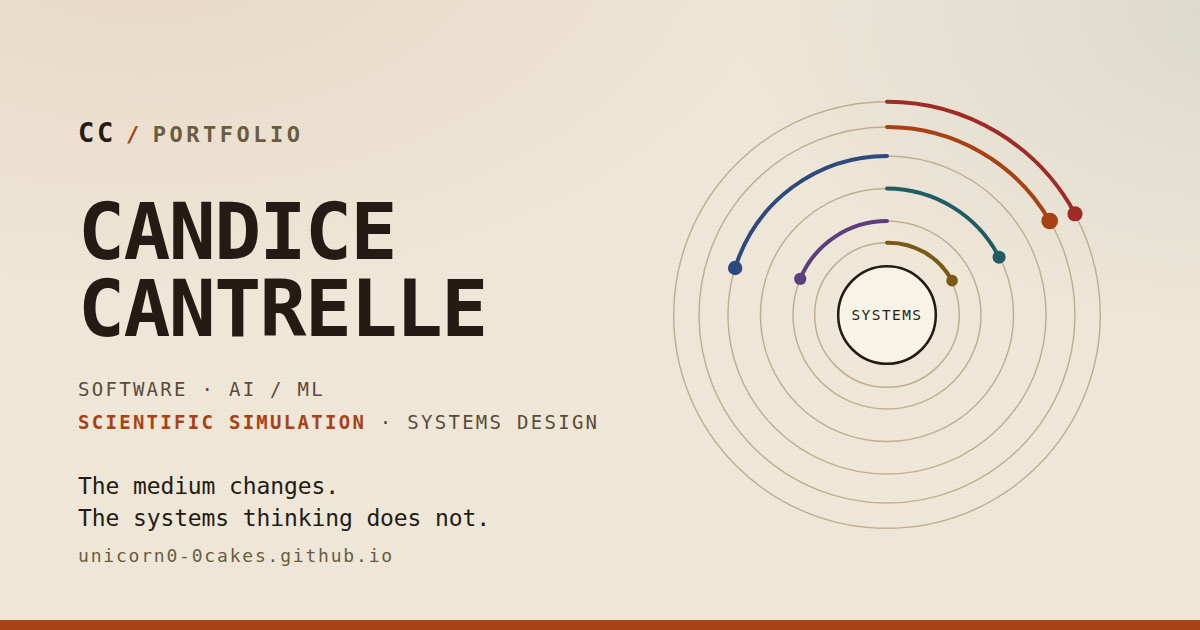
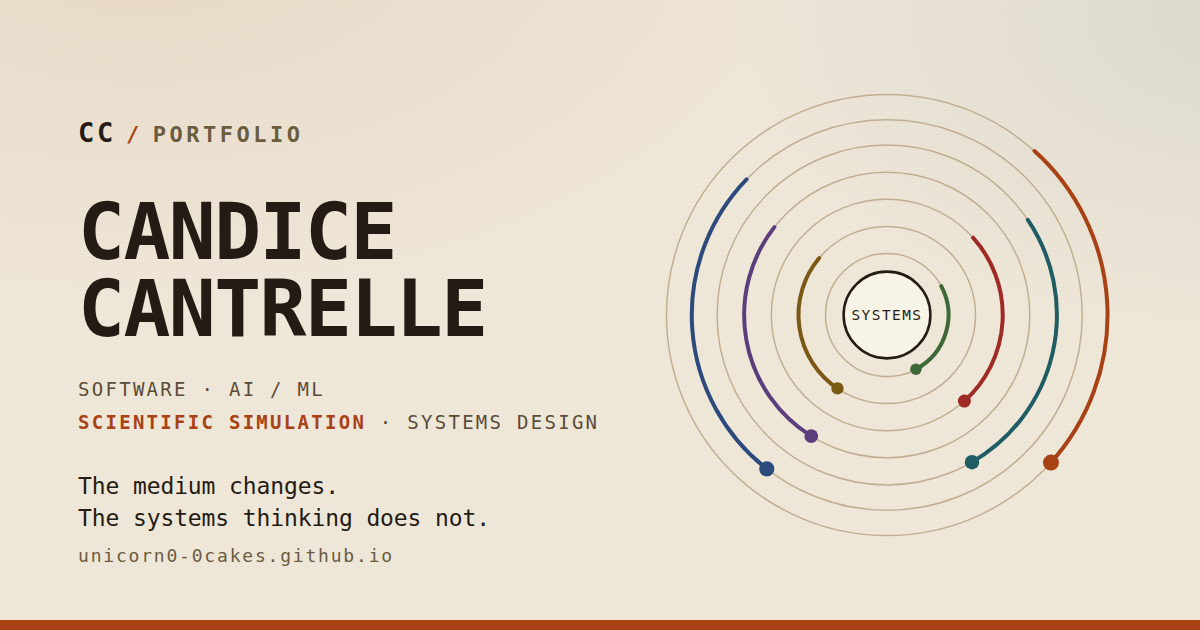
Draw all seven disciplines in the orbit figure
The homepage orbit showed six. The nav, the doors grid, the 404 and the
star map all say seven, and the figure is meant to be the argument the
rest of the site makes — so it was the one place asserting a different
structure. Workshop was missing.

Two labels also disagreed with their own wings: "Machine learning" where
the nav says AI + ML, and "Simulation" where the wing is Simulations.

The arc colours were decorative rather than meaningful: six arcs drawn at
radii chosen independently of the six labels, so the orange arc was not
Simulations' ring and the teal was not Software's. Ring radius, arc
colour and label now all belong to the same wing, taken from CATEGORIES
in registry order outward-in, so the figure encodes what it appears to.

Labels get the knockout treatment the star map already uses. The rings
rotate on a ninety-second cycle, so an arc passes behind the label column
whatever angle the arcs start at — struck-through labels were visible in
the night theme. Verified frozen thirty seconds into the cycle in both
themes rather than at rest.

The share card carried the same six-ring figure; regenerated to seven,
and the og:image:alt text on all sixteen pages now describes it.

Changed region(s): [[0.555, 0.1508, 0.925, 0.8444]]

diff --git a/index.html b/index.html
@@ -17,13 +17,13 @@
 <meta property="og:image" content="https://unicorn0-0cakes.github.io/assets/og-card.png">
 <meta property="og:image:width" content="1200">
 <meta property="og:image:height" content="630">
-<meta property="og:image:alt" content="Share card: the wordmark C C slash Portfolio, the name Candice Cantrelle set large, the disciplines Software, AI/ML, Scientific simulation and Systems design, the line “The medium changes. The systems thinking does not.”, and a six-ring orbit diagram centred on the word Systems.">
+<meta property="og:image:alt" content="Share card: the wordmark C C slash Portfolio, the name Candice Cantrelle set large, the disciplines Software, AI/ML, Scientific simulation and Systems design, the line “The medium changes. The systems thinking does not.”, and a seven-ring orbit diagram centred on the word Systems, one ring per discipline.">
 
 <meta name="twitter:card" content="summary_large_image">
 <meta name="twitter:title" content="Candice Cantrelle — Systems, Software, Simulation, Research, Design">
 <meta name="twitter:description" content="The medium changes. The systems thinking does not.">
 <meta name="twitter:image" content="https://unicorn0-0cakes.github.io/assets/og-card.png">
-<meta name="twitter:image:alt" content="Share card: the wordmark C C slash Portfolio, the name Candice Cantrelle set large, the disciplines Software, AI/ML, Scientific simulation and Systems design, the line “The medium changes. The systems thinking does not.”, and a six-ring orbit diagram centred on the word Systems.">
+<meta name="twitter:image:alt" content="Share card: the wordmark C C slash Portfolio, the name Candice Cantrelle set large, the disciplines Software, AI/ML, Scientific simulation and Systems design, the line “The medium changes. The systems thinking does not.”, and a seven-ring orbit diagram centred on the word Systems, one ring per discipline.">
 
 
 <!-- Structured data. Deliberately minimal: a name, the site, and two
@@ -122,14 +122,20 @@
   .orbit-link:focus-visible .orbit-link__cue { color: var(--w-accent); }
   .orbit-link:hover .orbit, .orbit-link:focus-visible .orbit { opacity: .92; }
 
-  /* The orbit plate. Six rings, one per discipline, drawn to the same
-     centre — the argument of the whole site, stated as a figure. */
+  /* The orbit plate. Seven rings, one per discipline, drawn to the same
+     centre — the argument of the whole site, stated as a figure. Ring
+     radius, arc colour and label all belong to the same wing, so the
+     figure says the same thing as the navigation. */
   .orbit { width: 100%; max-width: 300px; margin: 0 auto; display: block; }
   .orbit .ring { fill: none; stroke: var(--rf-line); stroke-width: 1; }
   .orbit .arc  { fill: none; stroke-width: 1.6; stroke-linecap: round; }
   .orbit .core { fill: var(--rf-panel); stroke: var(--rf-ink); stroke-width: 1.6; }
   .orbit .node { stroke: none; }
-  .orbit .lbl  { fill: var(--rf-muted); font-family: var(--rf-mono); font-size: 5.6px; letter-spacing: .16em; text-transform: uppercase; }
+  /* The arcs rotate, so one will eventually pass behind the label column.
+     Knocking the labels out of the background keeps them readable at every
+     point in the cycle rather than only at the moment of the screenshot. */
+  .orbit .lbl  { fill: var(--rf-muted); font-family: var(--rf-mono); font-size: 5.6px; letter-spacing: .16em; text-transform: uppercase;
+                 paint-order: stroke; stroke: var(--rf-bg); stroke-width: 2.6; stroke-linejoin: round; }
   .orbit .ctr  { fill: var(--rf-ink); font-family: var(--rf-mono); font-size: 6.4px; letter-spacing: .18em; text-transform: uppercase; }
   html[data-theme="night"] .orbit .arc, html[data-theme="night"] .orbit .node { filter: drop-shadow(0 0 4px currentColor); }
   .orbit .spin { transform-origin: 130px 130px; animation: orbit-spin 90s linear infinite; }
@@ -211,42 +217,46 @@
       <div>
         <a class="orbit-link" href="map/" aria-label="Open the star map: the whole site as one figure">
         <svg class="orbit" viewBox="0 0 260 260" role="img" aria-labelledby="orbit-t orbit-d">
-          <title id="orbit-t">Six disciplines on concentric orbits around one centre</title>
-          <desc id="orbit-d">A diagram: six rings of different radii share a single centre marked "systems", each carrying one discipline — simulation, machine learning, software, research, games and design.</desc>
+          <title id="orbit-t">Seven disciplines on concentric orbits around one centre</title>
+          <desc id="orbit-d">A diagram: seven rings of different radii share a single centre marked &quot;systems&quot;, each carrying one discipline &mdash; simulations, AI and machine learning, software, research, games, design and workshop. Each ring is drawn in that discipline&#39;s own colour.</desc>
 
-          <circle class="ring" cx="130" cy="130" r="34"/>
-          <circle class="ring" cx="130" cy="130" r="52"/>
-          <circle class="ring" cx="130" cy="130" r="70"/>
-          <circle class="ring" cx="130" cy="130" r="88"/>
-          <circle class="ring" cx="130" cy="130" r="106"/>
           <circle class="ring" cx="130" cy="130" r="122"/>
+          <circle class="ring" cx="130" cy="130" r="108"/>
+          <circle class="ring" cx="130" cy="130" r="94"/>
+          <circle class="ring" cx="130" cy="130" r="79"/>
+          <circle class="ring" cx="130" cy="130" r="64"/>
+          <circle class="ring" cx="130" cy="130" r="49"/>
+          <circle class="ring" cx="130" cy="130" r="34"/>
 
           <g class="spin">
-            <path class="arc" style="stroke:var(--rf-orange)" d="M130 24 A106 106 0 0 1 224 78"/>
-            <circle class="node" style="fill:var(--rf-orange)" cx="224" cy="78" r="3.6"/>
-            <path class="arc" style="stroke:var(--rf-teal)"   d="M130 60 A70 70 0 0 1 60 130"/>
-            <circle class="node" style="fill:var(--rf-teal)" cx="60" cy="130" r="3.2"/>
-            <path class="arc" style="stroke:var(--rf-gold)"   d="M130 96 A34 34 0 0 1 156 155"/>
-            <circle class="node" style="fill:var(--rf-gold)" cx="156" cy="155" r="2.8"/>
+            <path class="arc" style="stroke:var(--rf-orange)" d="M211.6 39.3 A122 122 0 0 1 220.7 211.6"/>
+            <circle class="node" style="fill:var(--rf-orange)" cx="220.7" cy="211.6" r="3.6"/>
+            <path class="arc" style="stroke:var(--rf-teal)" d="M207.9 77.4 A94 94 0 0 1 177 211.4"/>
+            <circle class="node" style="fill:var(--rf-teal)" cx="177" cy="211.4" r="3.2"/>
+            <path class="arc" style="stroke:var(--rf-oxide)" d="M177.6 87.2 A64 64 0 0 1 172.8 177.6"/>
+            <circle class="node" style="fill:var(--rf-oxide)" cx="172.8" cy="177.6" r="3.0"/>
+            <path class="arc" style="stroke:var(--rf-moss)" d="M160 114 A34 34 0 0 1 146 160"/>
+            <circle class="node" style="fill:var(--rf-moss)" cx="146" cy="160" r="2.8"/>
           </g>
           <g class="spin rev">
-            <path class="arc" style="stroke:var(--rf-indigo)" d="M130 42 A88 88 0 0 0 48 172"/>
-            <circle class="node" style="fill:var(--rf-indigo)" cx="48" cy="172" r="3.4"/>
-            <path class="arc" style="stroke:var(--rf-violet)" d="M130 78 A52 52 0 0 0 176 158"/>
-            <circle class="node" style="fill:var(--rf-violet)" cx="176" cy="158" r="3"/>
-            <path class="arc" style="stroke:var(--rf-oxide)"  d="M130 8 A122 122 0 0 0 24 190"/>
-            <circle class="node" style="fill:var(--rf-oxide)" cx="24" cy="190" r="3.4"/>
+            <path class="arc" style="stroke:var(--rf-indigo)" d="M52.3 55 A108 108 0 0 0 63.5 215.1"/>
+            <circle class="node" style="fill:var(--rf-indigo)" cx="63.5" cy="215.1" r="3.4"/>
+            <path class="arc" style="stroke:var(--rf-violet)" d="M67.7 81.4 A79 79 0 0 0 88.1 197"/>
+            <circle class="node" style="fill:var(--rf-violet)" cx="88.1" cy="197" r="3.1"/>
+            <path class="arc" style="stroke:var(--rf-gold)" d="M92.5 98.5 A49 49 0 0 0 102.6 170.6"/>
+            <circle class="node" style="fill:var(--rf-gold)" cx="102.6" cy="170.6" r="2.9"/>
           </g>
 
           <circle class="core" cx="130" cy="130" r="21"/>
           <text class="ctr" x="130" y="132" text-anchor="middle">Systems</text>
 
-          <text class="lbl" x="130" y="6"   text-anchor="middle">Games</text>
-          <text class="lbl" x="130" y="20"  text-anchor="middle">Simulation</text>
-          <text class="lbl" x="130" y="38"  text-anchor="middle">Machine learning</text>
-          <text class="lbl" x="130" y="56"  text-anchor="middle">Software</text>
-          <text class="lbl" x="130" y="74"  text-anchor="middle">Research</text>
-          <text class="lbl" x="130" y="92"  text-anchor="middle">Design</text>
+          <text class="lbl" x="130" y="10" text-anchor="middle">Simulations</text>
+          <text class="lbl" x="130" y="24" text-anchor="middle">AI + ML</text>
+          <text class="lbl" x="130" y="38" text-anchor="middle">Software</text>
+          <text class="lbl" x="130" y="53" text-anchor="middle">Research</text>
+          <text class="lbl" x="130" y="68" text-anchor="middle">Games</text>
+          <text class="lbl" x="130" y="83" text-anchor="middle">Design</text>
+          <text class="lbl" x="130" y="98" text-anchor="middle">Workshop</text>
         </svg>
         <span class="orbit-link__cue">Open the star map</span>
         </a>

diff --git a/tools/og-card.html b/tools/og-card.html
@@ -91,34 +91,38 @@
     <p class="url">unicorn0-0cakes.github.io</p>
   </div>
 
-  <!-- The same figure the homepage carries: six disciplines, one centre. -->
+  <!-- The same figure the homepage carries: seven disciplines, one centre,
+       each ring in its own wing's colour. -->
   <svg class="orbit" viewBox="0 0 260 260" aria-hidden="true">
     <g fill="none" stroke="var(--rf-line)" stroke-width=".8">
-      <circle cx="130" cy="130" r="40"/>
-      <circle cx="130" cy="130" r="52"/>
-      <circle cx="130" cy="130" r="70"/>
-      <circle cx="130" cy="130" r="88"/>
-      <circle cx="130" cy="130" r="104"/>
-      <circle cx="130" cy="130" r="118"/>
+      <circle cx="130" cy="130" r="122"/>
+      <circle cx="130" cy="130" r="108"/>
+      <circle cx="130" cy="130" r="94"/>
+      <circle cx="130" cy="130" r="79"/>
+      <circle cx="130" cy="130" r="64"/>
+      <circle cx="130" cy="130" r="49"/>
+      <circle cx="130" cy="130" r="34"/>
     </g>
     <g stroke-width="2.2" fill="none" stroke-linecap="round">
-      <path d="M130 26a104 104 0 0 1 90 52" stroke="var(--rf-orange)"/>
-      <path d="M130 42a88 88 0 0 0-84 62" stroke="var(--rf-indigo)"/>
-      <path d="M130 60a70 70 0 0 1 62 38" stroke="var(--rf-teal)"/>
-      <path d="M130 78a52 52 0 0 0-48 32" stroke="var(--rf-violet)"/>
-      <path d="M130 12a118 118 0 0 1 104 62" stroke="var(--rf-oxide)"/>
-      <path d="M130 90a40 40 0 0 1 36 21" stroke="var(--rf-gold)"/>
+      <path d="M211.6 39.3 A122 122 0 0 1 220.7 211.6" stroke="var(--rf-orange)"/>
+      <path d="M52.3 55 A108 108 0 0 0 63.5 215.1" stroke="var(--rf-indigo)"/>
+      <path d="M207.9 77.4 A94 94 0 0 1 177 211.4" stroke="var(--rf-teal)"/>
+      <path d="M67.7 81.4 A79 79 0 0 0 88.1 197" stroke="var(--rf-violet)"/>
+      <path d="M177.6 87.2 A64 64 0 0 1 172.8 177.6" stroke="var(--rf-oxide)"/>
+      <path d="M92.5 98.5 A49 49 0 0 0 102.6 170.6" stroke="var(--rf-gold)"/>
+      <path d="M160 114 A34 34 0 0 1 146 160" stroke="var(--rf-moss)"/>
     </g>
-    <g fill="var(--rf-ink)">
-      <circle cx="220" cy="78" r="4.6" fill="var(--rf-orange)"/>
-      <circle cx="46" cy="104" r="4" fill="var(--rf-indigo)"/>
-      <circle cx="192" cy="98" r="3.6" fill="var(--rf-teal)"/>
-      <circle cx="82" cy="110" r="3.4" fill="var(--rf-violet)"/>
-      <circle cx="234" cy="74" r="4.2" fill="var(--rf-oxide)"/>
-      <circle cx="166" cy="111" r="3.2" fill="var(--rf-gold)"/>
+    <g>
+      <circle cx="220.7" cy="211.6" r="4.4" fill="var(--rf-orange)"/>
+      <circle cx="63.5" cy="215.1" r="4.2" fill="var(--rf-indigo)"/>
+      <circle cx="177" cy="211.4" r="4.0" fill="var(--rf-teal)"/>
+      <circle cx="88.1" cy="197" r="3.8" fill="var(--rf-violet)"/>
+      <circle cx="172.8" cy="177.6" r="3.6" fill="var(--rf-oxide)"/>
+      <circle cx="102.6" cy="170.6" r="3.4" fill="var(--rf-gold)"/>
+      <circle cx="146" cy="160" r="3.2" fill="var(--rf-moss)"/>
     </g>
-    <circle cx="130" cy="130" r="27" fill="var(--rf-panel)" stroke="var(--rf-ink)" stroke-width="1.4"/>
-    <text class="lbl" x="130" y="133" text-anchor="middle" style="fill:var(--rf-ink)">SYSTEMS</text>
+    <circle cx="130" cy="130" r="24" fill="var(--rf-panel)" stroke="var(--rf-ink)" stroke-width="1.4"/>
+    <text class="lbl" x="130" y="132.5" text-anchor="middle" style="fill:var(--rf-ink)">SYSTEMS</text>
   </svg>
 </div>
 </body>

diff --git a/research/multimodal-archaeology/index.html b/research/multimodal-archaeology/index.html
@@ -17,13 +17,13 @@
 <meta property="og:image" content="https://unicorn0-0cakes.github.io/assets/og-card.png">
 <meta property="og:image:width" content="1200">
 <meta property="og:image:height" content="630">
-<meta property="og:image:alt" content="Share card: the wordmark C C slash Portfolio, the name Candice Cantrelle set large, the disciplines Software, AI/ML, Scientific simulation and Systems design, the line “The medium changes. The systems thinking does not.”, and a six-ring orbit diagram centred on the word Systems.">
+<meta property="og:image:alt" content="Share card: the wordmark C C slash Portfolio, the name Candice Cantrelle set large, the disciplines Software, AI/ML, Scientific simulation and Systems design, the line “The medium changes. The systems thinking does not.”, and a seven-ring orbit diagram centred on the word Systems, one ring per discipline.">
 
 <meta name="twitter:card" content="summary_large_image">
 <meta name="twitter:title" content="Multimodal Archaeological Site Detection — Candice Cantrelle">
 <meta name="twitter:description" content="A proposed three-tier pipeline for locating unrecorded archaeological sites from satellite, LiDAR and archival text. Architecture built; nothing trained; no performance claimed.">
 <meta name="twitter:image" content="https://unicorn0-0cakes.github.io/assets/og-card.png">
-<meta name="twitter:image:alt" content="Share card: the wordmark C C slash Portfolio, the name Candice Cantrelle set large, the disciplines Software, AI/ML, Scientific simulation and Systems design, the line “The medium changes. The systems thinking does not.”, and a six-ring orbit diagram centred on the word Systems.">
+<meta name="twitter:image:alt" content="Share card: the wordmark C C slash Portfolio, the name Candice Cantrelle set large, the disciplines Software, AI/ML, Scientific simulation and Systems design, the line “The medium changes. The systems thinking does not.”, and a seven-ring orbit diagram centred on the word Systems, one ring per discipline.">
 
 <link rel="preconnect" href="https://fonts.googleapis.com">
 <link rel="preconnect" href="https://fonts.gstatic.com" crossorigin>

diff --git a/software/index.html b/software/index.html
@@ -17,13 +17,13 @@
 <meta property="og:image" content="https://unicorn0-0cakes.github.io/assets/og-card.png">
 <meta property="og:image:width" content="1200">
 <meta property="og:image:height" content="630">
-<meta property="og:image:alt" content="Share card: the wordmark C C slash Portfolio, the name Candice Cantrelle set large, the disciplines Software, AI/ML, Scientific simulation and Systems design, the line “The medium changes. The systems thinking does not.”, and a six-ring orbit diagram centred on the word Systems.">
+<meta property="og:image:alt" content="Share card: the wordmark C C slash Portfolio, the name Candice Cantrelle set large, the disciplines Software, AI/ML, Scientific simulation and Systems design, the line “The medium changes. The systems thinking does not.”, and a seven-ring orbit diagram centred on the word Systems, one ring per discipline.">
 
 <meta name="twitter:card" content="summary_large_image">
 <meta name="twitter:title" content="Software & Tools — Candice Cantrelle">
 <meta name="twitter:description" content="Applications and utilities built end to end: a computer-vision pipeline that turns a photograph of a key into a printable model, and a speedcubing timer that runs entirely offline.">
 <meta name="twitter:image" content="https://unicorn0-0cakes.github.io/assets/og-card.png">
-<meta name="twitter:image:alt" content="Share card: the wordmark C C slash Portfolio, the name Candice Cantrelle set large, the disciplines Software, AI/ML, Scientific simulation and Systems design, the line “The medium changes. The systems thinking does not.”, and a six-ring orbit diagram centred on the word Systems.">
+<meta name="twitter:image:alt" content="Share card: the wordmark C C slash Portfolio, the name Candice Cantrelle set large, the disciplines Software, AI/ML, Scientific simulation and Systems design, the line “The medium changes. The systems thinking does not.”, and a seven-ring orbit diagram centred on the word Systems, one ring per discipline.">
 
 <link rel="preconnect" href="https://fonts.googleapis.com">
 <link rel="preconnect" href="https://fonts.gstatic.com" crossorigin>

diff --git a/software/key-to-stl/index.html b/software/key-to-stl/index.html
@@ -17,13 +17,13 @@
 <meta property="og:image" content="https://unicorn0-0cakes.github.io/assets/og-card.png">
 <meta property="og:image:width" content="1200">
 <meta property="og:image:height" content="630">
-<meta property="og:image:alt" content="Share card: the wordmark C C slash Portfolio, the name Candice Cantrelle set large, the disciplines Software, AI/ML, Scientific simulation and Systems design, the line “The medium changes. The systems thinking does not.”, and a six-ring orbit diagram centred on the word Systems.">
+<meta property="og:image:alt" content="Share card: the wordmark C C slash Portfolio, the name Candice Cantrelle set large, the disciplines Software, AI/ML, Scientific simulation and Systems design, the line “The medium changes. The systems thinking does not.”, and a seven-ring orbit diagram centred on the word Systems, one ring per discipline.">
 
 <meta name="twitter:card" content="summary_large_image">
 <meta name="twitter:title" content="Key → STL — Candice Cantrelle">
 <meta name="twitter:description" content="A four-surface system for recovering a printable profile from a photograph of a key: OpenCV core, FastAPI service, browser client, desktop build and an automated release pipeline.">
 <meta name="twitter:image" content="https://unicorn0-0cakes.github.io/assets/og-card.png">
-<meta name="twitter:image:alt" content="Share card: the wordmark C C slash Portfolio, the name Candice Cantrelle set large, the disciplines Software, AI/ML, Scientific simulation and Systems design, the line “The medium changes. The systems thinking does not.”, and a six-ring orbit diagram centred on the word Systems.">
+<meta name="twitter:image:alt" content="Share card: the wordmark C C slash Portfolio, the name Candice Cantrelle set large, the disciplines Software, AI/ML, Scientific simulation and Systems design, the line “The medium changes. The systems thinking does not.”, and a seven-ring orbit diagram centred on the word Systems, one ring per discipline.">
 
 <link rel="preconnect" href="https://fonts.googleapis.com">
 <link rel="preconnect" href="https://fonts.gstatic.com" crossorigin>

diff --git a/ai-ml/facial-emotion-detection/index.html b/ai-ml/facial-emotion-detection/index.html
@@ -17,13 +17,13 @@
 <meta property="og:image" content="https://unicorn0-0cakes.github.io/assets/og-card.png">
 <meta property="og:image:width" content="1200">
 <meta property="og:image:height" content="630">
-<meta property="og:image:alt" content="Share card: the wordmark C C slash Portfolio, the name Candice Cantrelle set large, the disciplines Software, AI/ML, Scientific simulation and Systems design, the line “The medium changes. The systems thinking does not.”, and a six-ring orbit diagram centred on the word Systems.">
+<meta property="og:image:alt" content="Share card: the wordmark C C slash Portfolio, the name Candice Cantrelle set large, the disciplines Software, AI/ML, Scientific simulation and Systems design, the line “The medium changes. The systems thinking does not.”, and a seven-ring orbit diagram centred on the word Systems, one ring per discipline.">
 
 <meta name="twitter:card" content="summary_large_image">
 <meta name="twitter:title" content="Facial Emotion Detection — Candice Cantrelle">
 <meta name="twitter:description" content="Four-class facial expression recognition with VGG16 transfer learning: 72.66% test accuracy, 72.80% F1, and the class imbalance that partly explains both.">
 <meta name="twitter:image" content="https://unicorn0-0cakes.github.io/assets/og-card.png">
-<meta name="twitter:image:alt" content="Share card: the wordmark C C slash Portfolio, the name Candice Cantrelle set large, the disciplines Software, AI/ML, Scientific simulation and Systems design, the line “The medium changes. The systems thinking does not.”, and a six-ring orbit diagram centred on the word Systems.">
+<meta name="twitter:image:alt" content="Share card: the wordmark C C slash Portfolio, the name Candice Cantrelle set large, the disciplines Software, AI/ML, Scientific simulation and Systems design, the line “The medium changes. The systems thinking does not.”, and a seven-ring orbit diagram centred on the word Systems, one ring per discipline.">
 
 <link rel="preconnect" href="https://fonts.googleapis.com">
 <link rel="preconnect" href="https://fonts.gstatic.com" crossorigin>

diff --git a/about/credentials/index.html b/about/credentials/index.html
@@ -17,13 +17,13 @@
 <meta property="og:image" content="https://unicorn0-0cakes.github.io/assets/og-card.png">
 <meta property="og:image:width" content="1200">
 <meta property="og:image:height" content="630">
-<meta property="og:image:alt" content="Share card: the wordmark C C slash Portfolio, the name Candice Cantrelle set large, the disciplines Software, AI/ML, Scientific simulation and Systems design, the line “The medium changes. The systems thinking does not.”, and a six-ring orbit diagram centred on the word Systems.">
+<meta property="og:image:alt" content="Share card: the wordmark C C slash Portfolio, the name Candice Cantrelle set large, the disciplines Software, AI/ML, Scientific simulation and Systems design, the line “The medium changes. The systems thinking does not.”, and a seven-ring orbit diagram centred on the word Systems, one ring per discipline.">
 
 <meta name="twitter:card" content="summary_large_image">
 <meta name="twitter:title" content="Credentials — Candice Cantrelle">
 <meta name="twitter:description" content="Twelve certificate programmes and their component coursework, plus individually completed certifications: MIT, IBM, Google, HKUST, HP and University of Edinburgh.">
 <meta name="twitter:image" content="https://unicorn0-0cakes.github.io/assets/og-card.png">
-<meta name="twitter:image:alt" content="Share card: the wordmark C C slash Portfolio, the name Candice Cantrelle set large, the disciplines Software, AI/ML, Scientific simulation and Systems design, the line “The medium changes. The systems thinking does not.”, and a six-ring orbit diagram centred on the word Systems.">
+<meta name="twitter:image:alt" content="Share card: the wordmark C C slash Portfolio, the name Candice Cantrelle set large, the disciplines Software, AI/ML, Scientific simulation and Systems design, the line “The medium changes. The systems thinking does not.”, and a seven-ring orbit diagram centred on the word Systems, one ring per discipline.">
 
 <link rel="preconnect" href="https://fonts.googleapis.com">
 <link rel="preconnect" href="https://fonts.gstatic.com" crossorigin>

diff --git a/research/index.html b/research/index.html
@@ -17,13 +17,13 @@
 <meta property="og:image" content="https://unicorn0-0cakes.github.io/assets/og-card.png">
 <meta property="og:image:width" content="1200">
 <meta property="og:image:height" content="630">
-<meta property="og:image:alt" content="Share card: the wordmark C C slash Portfolio, the name Candice Cantrelle set large, the disciplines Software, AI/ML, Scientific simulation and Systems design, the line “The medium changes. The systems thinking does not.”, and a six-ring orbit diagram centred on the word Systems.">
+<meta property="og:image:alt" content="Share card: the wordmark C C slash Portfolio, the name Candice Cantrelle set large, the disciplines Software, AI/ML, Scientific simulation and Systems design, the line “The medium changes. The systems thinking does not.”, and a seven-ring orbit diagram centred on the word Systems, one ring per discipline.">
 
 <meta name="twitter:card" content="summary_large_image">
 <meta name="twitter:title" content="Research — Candice Cantrelle">
 <meta name="twitter:description" content="Exploratory work where the investigation is the output. Implemented and proposed are labelled separately, and no performance claims are made without evidence.">
 <meta name="twitter:image" content="https://unicorn0-0cakes.github.io/assets/og-card.png">
-<meta name="twitter:image:alt" content="Share card: the wordmark C C slash Portfolio, the name Candice Cantrelle set large, the disciplines Software, AI/ML, Scientific simulation and Systems design, the line “The medium changes. The systems thinking does not.”, and a six-ring orbit diagram centred on the word Systems.">
+<meta name="twitter:image:alt" content="Share card: the wordmark C C slash Portfolio, the name Candice Cantrelle set large, the disciplines Software, AI/ML, Scientific simulation and Systems design, the line “The medium changes. The systems thinking does not.”, and a seven-ring orbit diagram centred on the word Systems, one ring per discipline.">
 
 <link rel="preconnect" href="https://fonts.googleapis.com">
 <link rel="preconnect" href="https://fonts.gstatic.com" crossorigin>

diff --git a/ai-ml/index.html b/ai-ml/index.html
@@ -17,13 +17,13 @@
 <meta property="og:image" content="https://unicorn0-0cakes.github.io/assets/og-card.png">
 <meta property="og:image:width" content="1200">
 <meta property="og:image:height" content="630">
-<meta property="og:image:alt" content="Share card: the wordmark C C slash Portfolio, the name Candice Cantrelle set large, the disciplines Software, AI/ML, Scientific simulation and Systems design, the line “The medium changes. The systems thinking does not.”, and a six-ring orbit diagram centred on the word Systems.">
+<meta property="og:image:alt" content="Share card: the wordmark C C slash Portfolio, the name Candice Cantrelle set large, the disciplines Software, AI/ML, Scientific simulation and Systems design, the line “The medium changes. The systems thinking does not.”, and a seven-ring orbit diagram centred on the word Systems, one ring per discipline.">
 
 <meta name="twitter:card" content="summary_large_image">
 <meta name="twitter:title" content="AI & Machine Learning — Candice Cantrelle">
 <meta name="twitter:description" content="Vision and prediction projects reported with the numbers that were actually measured — and clearly marked where no verified numbers exist.">
 <meta name="twitter:image" content="https://unicorn0-0cakes.github.io/assets/og-card.png">
-<meta name="twitter:image:alt" content="Share card: the wordmark C C slash Portfolio, the name Candice Cantrelle set large, the disciplines Software, AI/ML, Scientific simulation and Systems design, the line “The medium changes. The systems thinking does not.”, and a six-ring orbit diagram centred on the word Systems.">
+<meta name="twitter:image:alt" content="Share card: the wordmark C C slash Portfolio, the name Candice Cantrelle set large, the disciplines Software, AI/ML, Scientific simulation and Systems design, the line “The medium changes. The systems thinking does not.”, and a seven-ring orbit diagram centred on the word Systems, one ring per discipline.">
 
 <link rel="preconnect" href="https://fonts.googleapis.com">
 <link rel="preconnect" href="https://fonts.gstatic.com" crossorigin>

diff --git a/design/index.html b/design/index.html
@@ -17,13 +17,13 @@
 <meta property="og:image" content="https://unicorn0-0cakes.github.io/assets/og-card.png">
 <meta property="og:image:width" content="1200">
 <meta property="og:image:height" content="630">
-<meta property="og:image:alt" content="Share card: the wordmark C C slash Portfolio, the name Candice Cantrelle set large, the disciplines Software, AI/ML, Scientific simulation and Systems design, the line “The medium changes. The systems thinking does not.”, and a six-ring orbit diagram centred on the word Systems.">
+<meta property="og:image:alt" content="Share card: the wordmark C C slash Portfolio, the name Candice Cantrelle set large, the disciplines Software, AI/ML, Scientific simulation and Systems design, the line “The medium changes. The systems thinking does not.”, and a seven-ring orbit diagram centred on the word Systems, one ring per discipline.">
 
 <meta name="twitter:card" content="summary_large_image">
 <meta name="twitter:title" content="Design — Candice Cantrelle">
 <meta name="twitter:description" content="Visual systems and client work: identity for an industrial crane business, fine jewellery visualization, and virtual staging for residential property.">
 <meta name="twitter:image" content="https://unicorn0-0cakes.github.io/assets/og-card.png">
-<meta name="twitter:image:alt" content="Share card: the wordmark C C slash Portfolio, the name Candice Cantrelle set large, the disciplines Software, AI/ML, Scientific simulation and Systems design, the line “The medium changes. The systems thinking does not.”, and a six-ring orbit diagram centred on the word Systems.">
+<meta name="twitter:image:alt" content="Share card: the wordmark C C slash Portfolio, the name Candice Cantrelle set large, the disciplines Software, AI/ML, Scientific simulation and Systems design, the line “The medium changes. The systems thinking does not.”, and a seven-ring orbit diagram centred on the word Systems, one ring per discipline.">
 
 <link rel="preconnect" href="https://fonts.googleapis.com">
 <link rel="preconnect" href="https://fonts.gstatic.com" crossorigin>

diff --git a/about/index.html b/about/index.html
@@ -17,13 +17,13 @@
 <meta property="og:image" content="https://unicorn0-0cakes.github.io/assets/og-card.png">
 <meta property="og:image:width" content="1200">
 <meta property="og:image:height" content="630">
-<meta property="og:image:alt" content="Share card: the wordmark C C slash Portfolio, the name Candice Cantrelle set large, the disciplines Software, AI/ML, Scientific simulation and Systems design, the line “The medium changes. The systems thinking does not.”, and a six-ring orbit diagram centred on the word Systems.">
+<meta property="og:image:alt" content="Share card: the wordmark C C slash Portfolio, the name Candice Cantrelle set large, the disciplines Software, AI/ML, Scientific simulation and Systems design, the line “The medium changes. The systems thinking does not.”, and a seven-ring orbit diagram centred on the word Systems, one ring per discipline.">
 
 <meta name="twitter:card" content="summary_large_image">
 <meta name="twitter:title" content="About — Candice Cantrelle">
 <meta name="twitter:description" content="How I work, what I have built, and what I have studied. Systems thinking across simulation, machine learning, software, research and design.">
 <meta name="twitter:image" content="https://unicorn0-0cakes.github.io/assets/og-card.png">
-<meta name="twitter:image:alt" content="Share card: the wordmark C C slash Portfolio, the name Candice Cantrelle set large, the disciplines Software, AI/ML, Scientific simulation and Systems design, the line “The medium changes. The systems thinking does not.”, and a six-ring orbit diagram centred on the word Systems.">
+<meta name="twitter:image:alt" content="Share card: the wordmark C C slash Portfolio, the name Candice Cantrelle set large, the disciplines Software, AI/ML, Scientific simulation and Systems design, the line “The medium changes. The systems thinking does not.”, and a seven-ring orbit diagram centred on the word Systems, one ring per discipline.">
 
 <link rel="preconnect" href="https://fonts.googleapis.com">
 <link rel="preconnect" href="https://fonts.gstatic.com" crossorigin>

diff --git a/simulation/index.html b/simulation/index.html
@@ -17,13 +17,13 @@
 <meta property="og:image" content="https://unicorn0-0cakes.github.io/assets/og-card.png">
 <meta property="og:image:width" content="1200">
 <meta property="og:image:height" content="630">
-<meta property="og:image:alt" content="Share card: the wordmark C C slash Portfolio, the name Candice Cantrelle set large, the disciplines Software, AI/ML, Scientific simulation and Systems design, the line “The medium changes. The systems thinking does not.”, and a six-ring orbit diagram centred on the word Systems.">
+<meta property="og:image:alt" content="Share card: the wordmark C C slash Portfolio, the name Candice Cantrelle set large, the disciplines Software, AI/ML, Scientific simulation and Systems design, the line “The medium changes. The systems thinking does not.”, and a seven-ring orbit diagram centred on the word Systems, one ring per discipline.">
 
 <meta name="twitter:card" content="summary_large_image">
 <meta name="twitter:title" content="Simulations — Candice Cantrelle">
 <meta name="twitter:description" content="Nine self-contained browser instruments that rebuild documented experiments. Set the conditions, run the world, read what comes out.">
 <meta name="twitter:image" content="https://unicorn0-0cakes.github.io/assets/og-card.png">
-<meta name="twitter:image:alt" content="Share card: the wordmark C C slash Portfolio, the name Candice Cantrelle set large, the disciplines Software, AI/ML, Scientific simulation and Systems design, the line “The medium changes. The systems thinking does not.”, and a six-ring orbit diagram centred on the word Systems.">
+<meta name="twitter:image:alt" content="Share card: the wordmark C C slash Portfolio, the name Candice Cantrelle set large, the disciplines Software, AI/ML, Scientific simulation and Systems design, the line “The medium changes. The systems thinking does not.”, and a seven-ring orbit diagram centred on the word Systems, one ring per discipline.">
 
 <link rel="preconnect" href="https://fonts.googleapis.com">
 <link rel="preconnect" href="https://fonts.gstatic.com" crossorigin>
